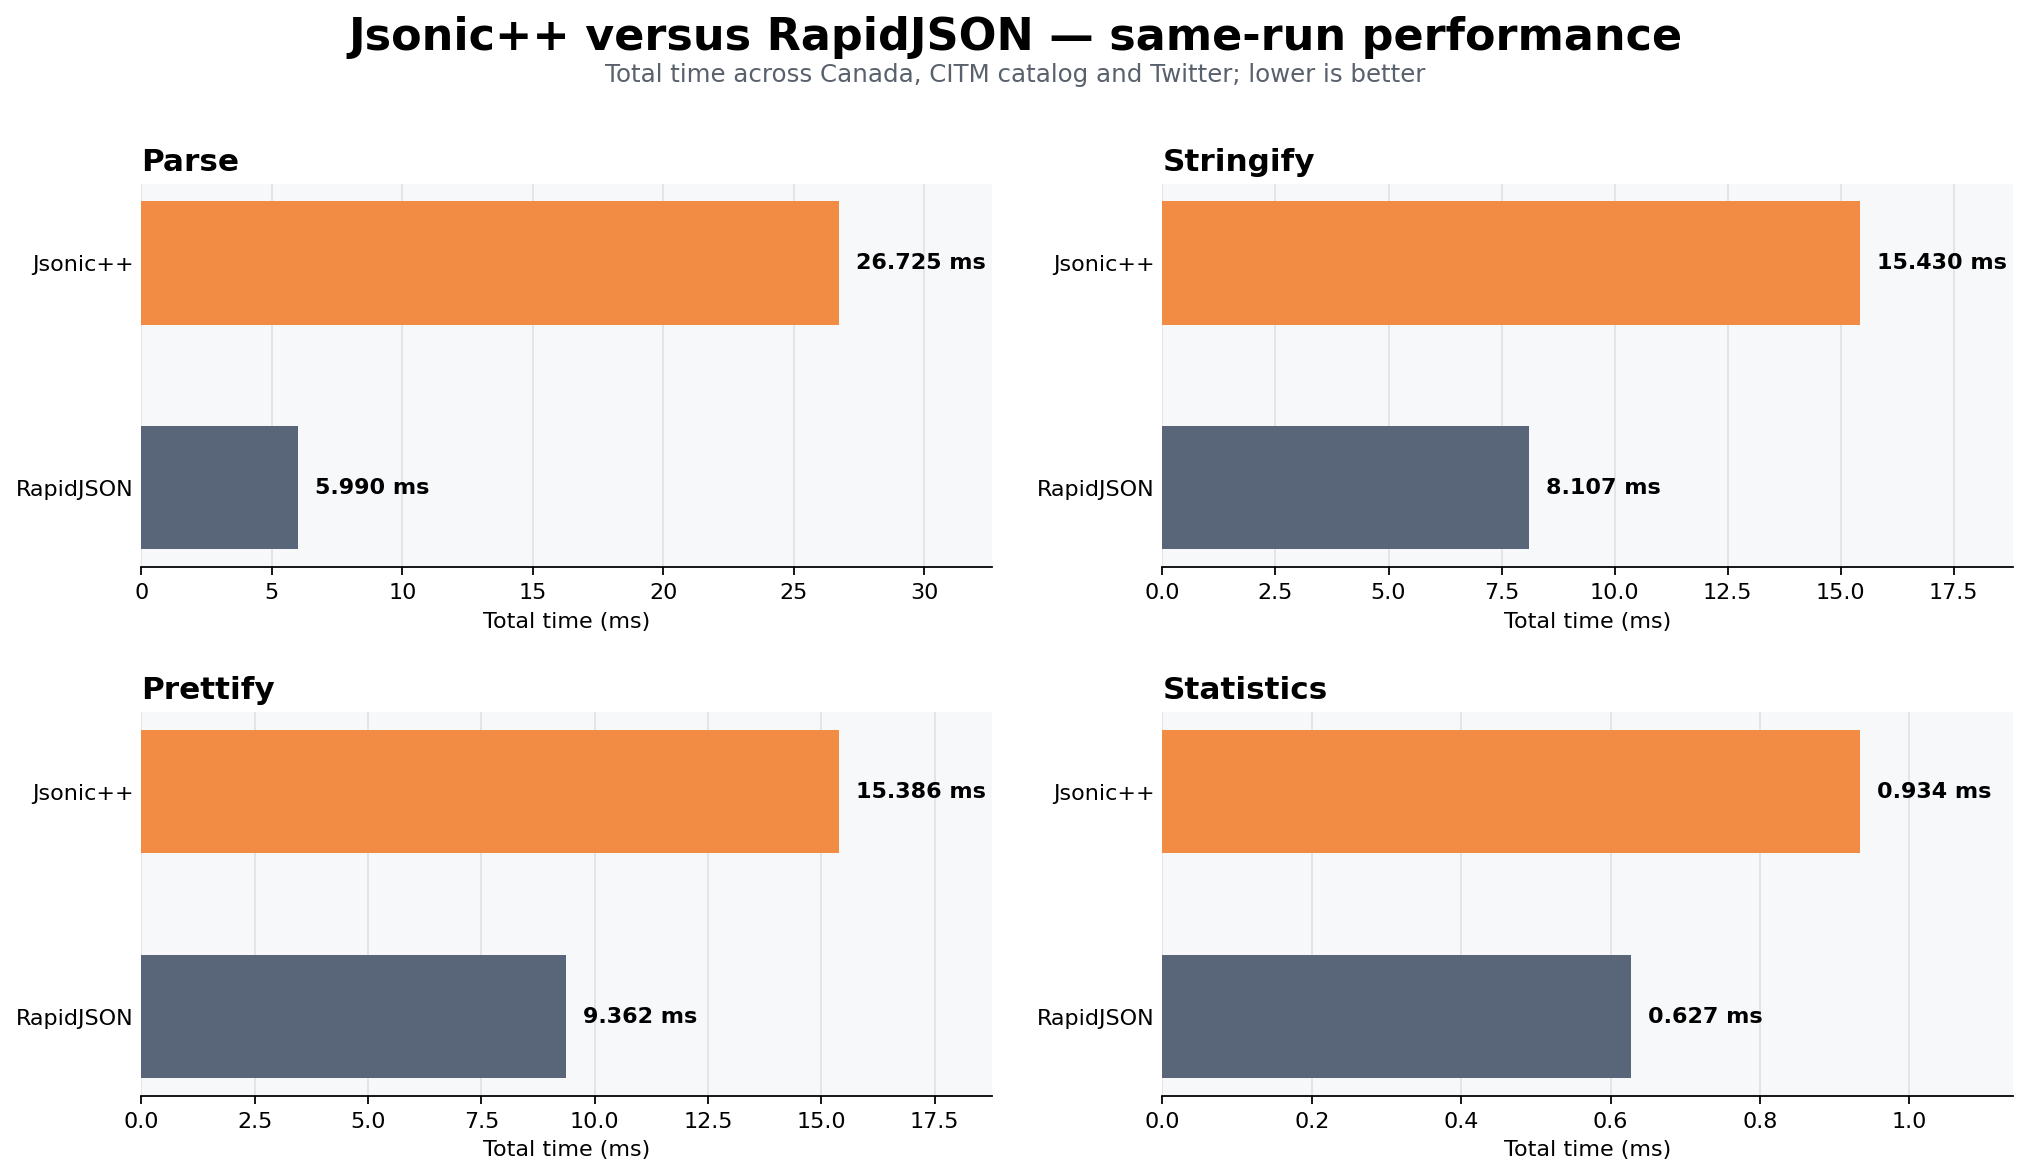
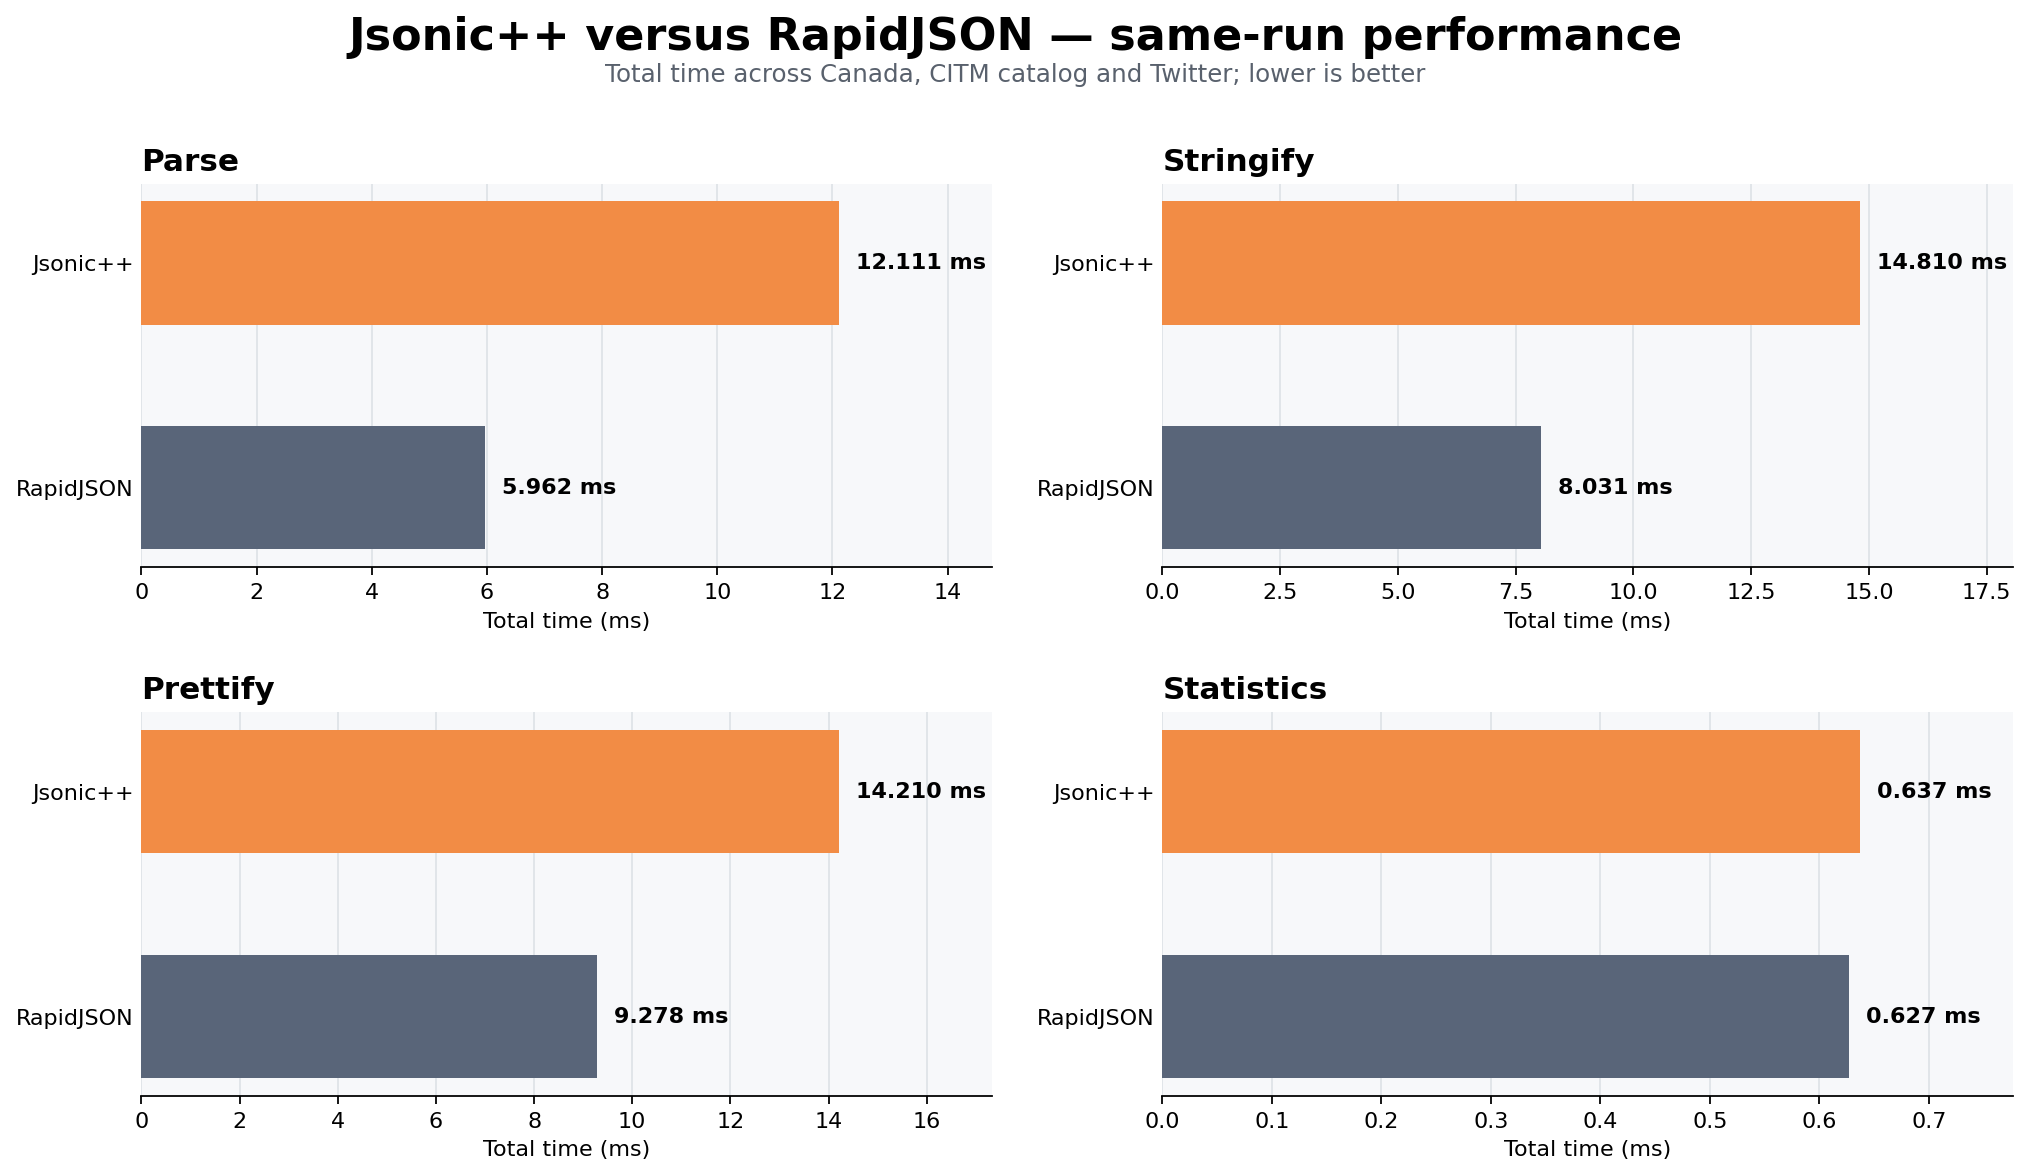
Update Jsonic benchmark after parser optimizations

diff --git a/src/tests/jsonictest.cpp b/src/tests/jsonictest.cpp
@@ -105,7 +105,7 @@ public:
     virtual ParseResultBase* Parse(const char* input, size_t length) const override {
         JsonicParseResult* result = new JsonicParseResult;
         std::string error;
-        if (!json::Document::parse(std::string(input, length), result->root, error)) {
+        if (!json::Document::parse(std::string_view(input, length), result->root, error)) {
             delete result;
             return 0;
         }

diff --git a/README.md b/README.md
@@ -163,8 +163,8 @@ better for timings.
 
 ![Jsonic++ versus RapidJSON conformance](sample/jsonic_vs_rapidjson_conformance.png)
 
-On this run, Jsonic++ was 4.46x slower to parse, 1.90x slower to stringify,
-1.64x slower to prettify, and 1.49x slower to traverse for statistics than
+On this run, Jsonic++ was 2.03x slower to parse, 1.84x slower to stringify,
+1.53x slower to prettify, and 1.02x slower to traverse for statistics than
 RapidJSON. Jsonic++ scored higher overall on this benchmark's conformance set
 (127/136 versus 118/136): both passed validation and string parsing, Jsonic++
 passed all double-parsing cases, and RapidJSON passed all byte-for-byte numeric
@@ -172,8 +172,15 @@ round trips.
 
 Library | Conformance | Parse | Stringify | Prettify | Statistics | Code size
 --------|-------------|-------|-----------|----------|------------|----------
-Jsonic++ (C++17) | 127/136 (93.4%) | 26.725 ms | 15.430 ms | 15.386 ms | 0.934 ms | 59,232 bytes
-RapidJSON (C++) | 118/136 (86.8%) | 5.990 ms | 8.107 ms | 9.362 ms | 0.627 ms | Not measured
+Jsonic++ (C++17) | 127/136 (93.4%) | 12.111 ms | 14.810 ms | 14.210 ms | 0.637 ms | 82,528 bytes
+RapidJSON (C++) | 118/136 (86.8%) | 5.962 ms | 8.031 ms | 9.278 ms | 0.627 ms | Not measured
+
+The bounded optimization phase reduced Jsonic++'s median aggregate parse time
+from 26.506 ms to 11.922 ms (55.0%) on this machine. The retained changes are
+bounded `std::string_view` input, `std::from_chars` number conversion with a
+rare compatibility fallback, and an initial two-element array reservation.
+Pointer-cursor and ASCII-only fast-path experiments did not clear the 3%
+retention threshold and were reverted.
 
 Jsonic++ passed all 34 parse-validation, all 66 double-parsing, and all 9
 string-parsing cases. It passed 18 of 27 byte-for-byte round-trip cases; the
